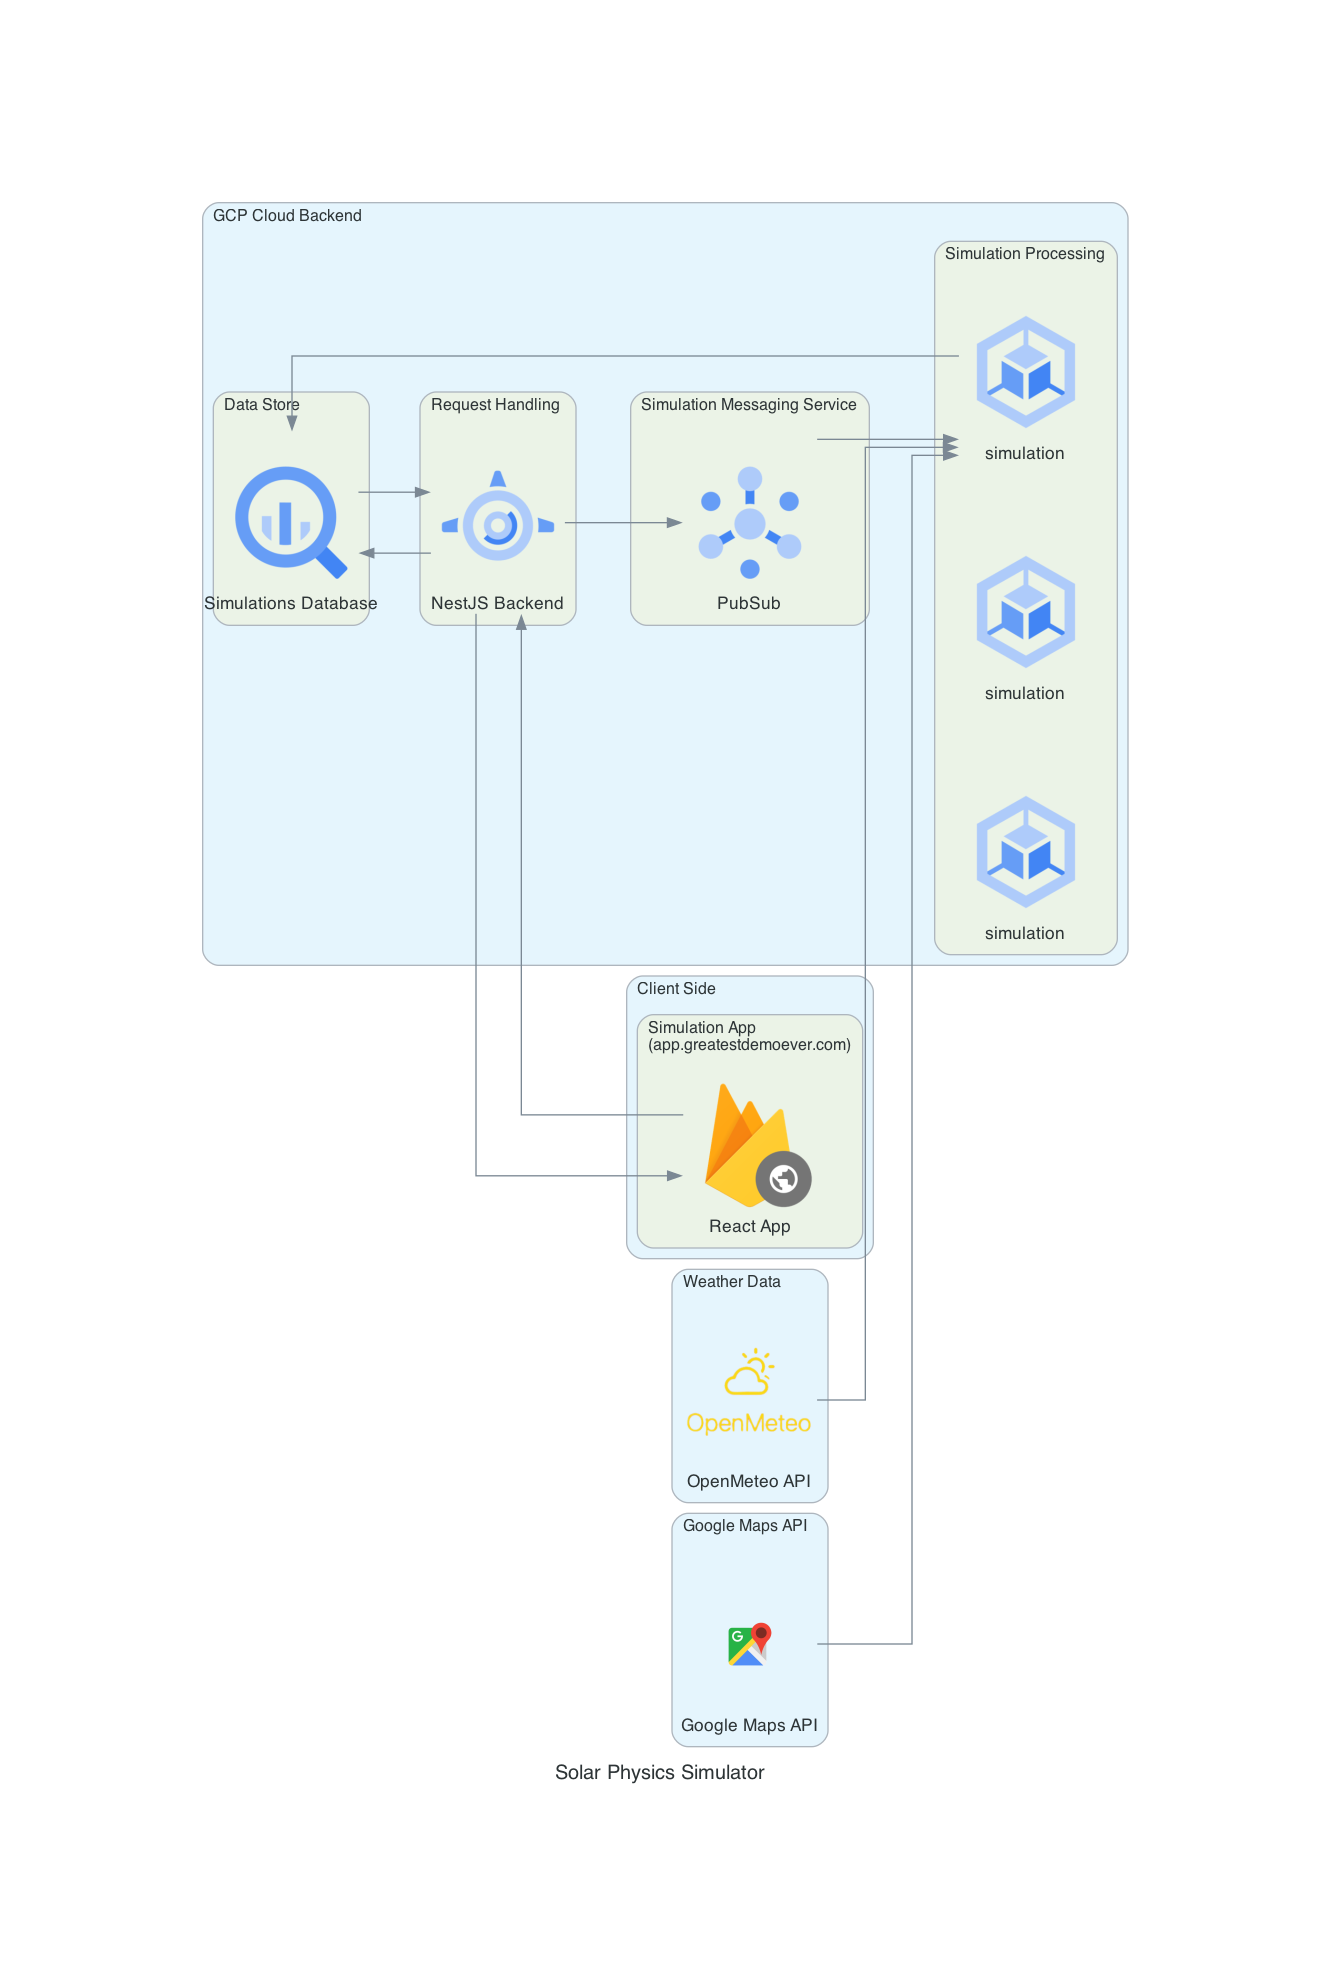
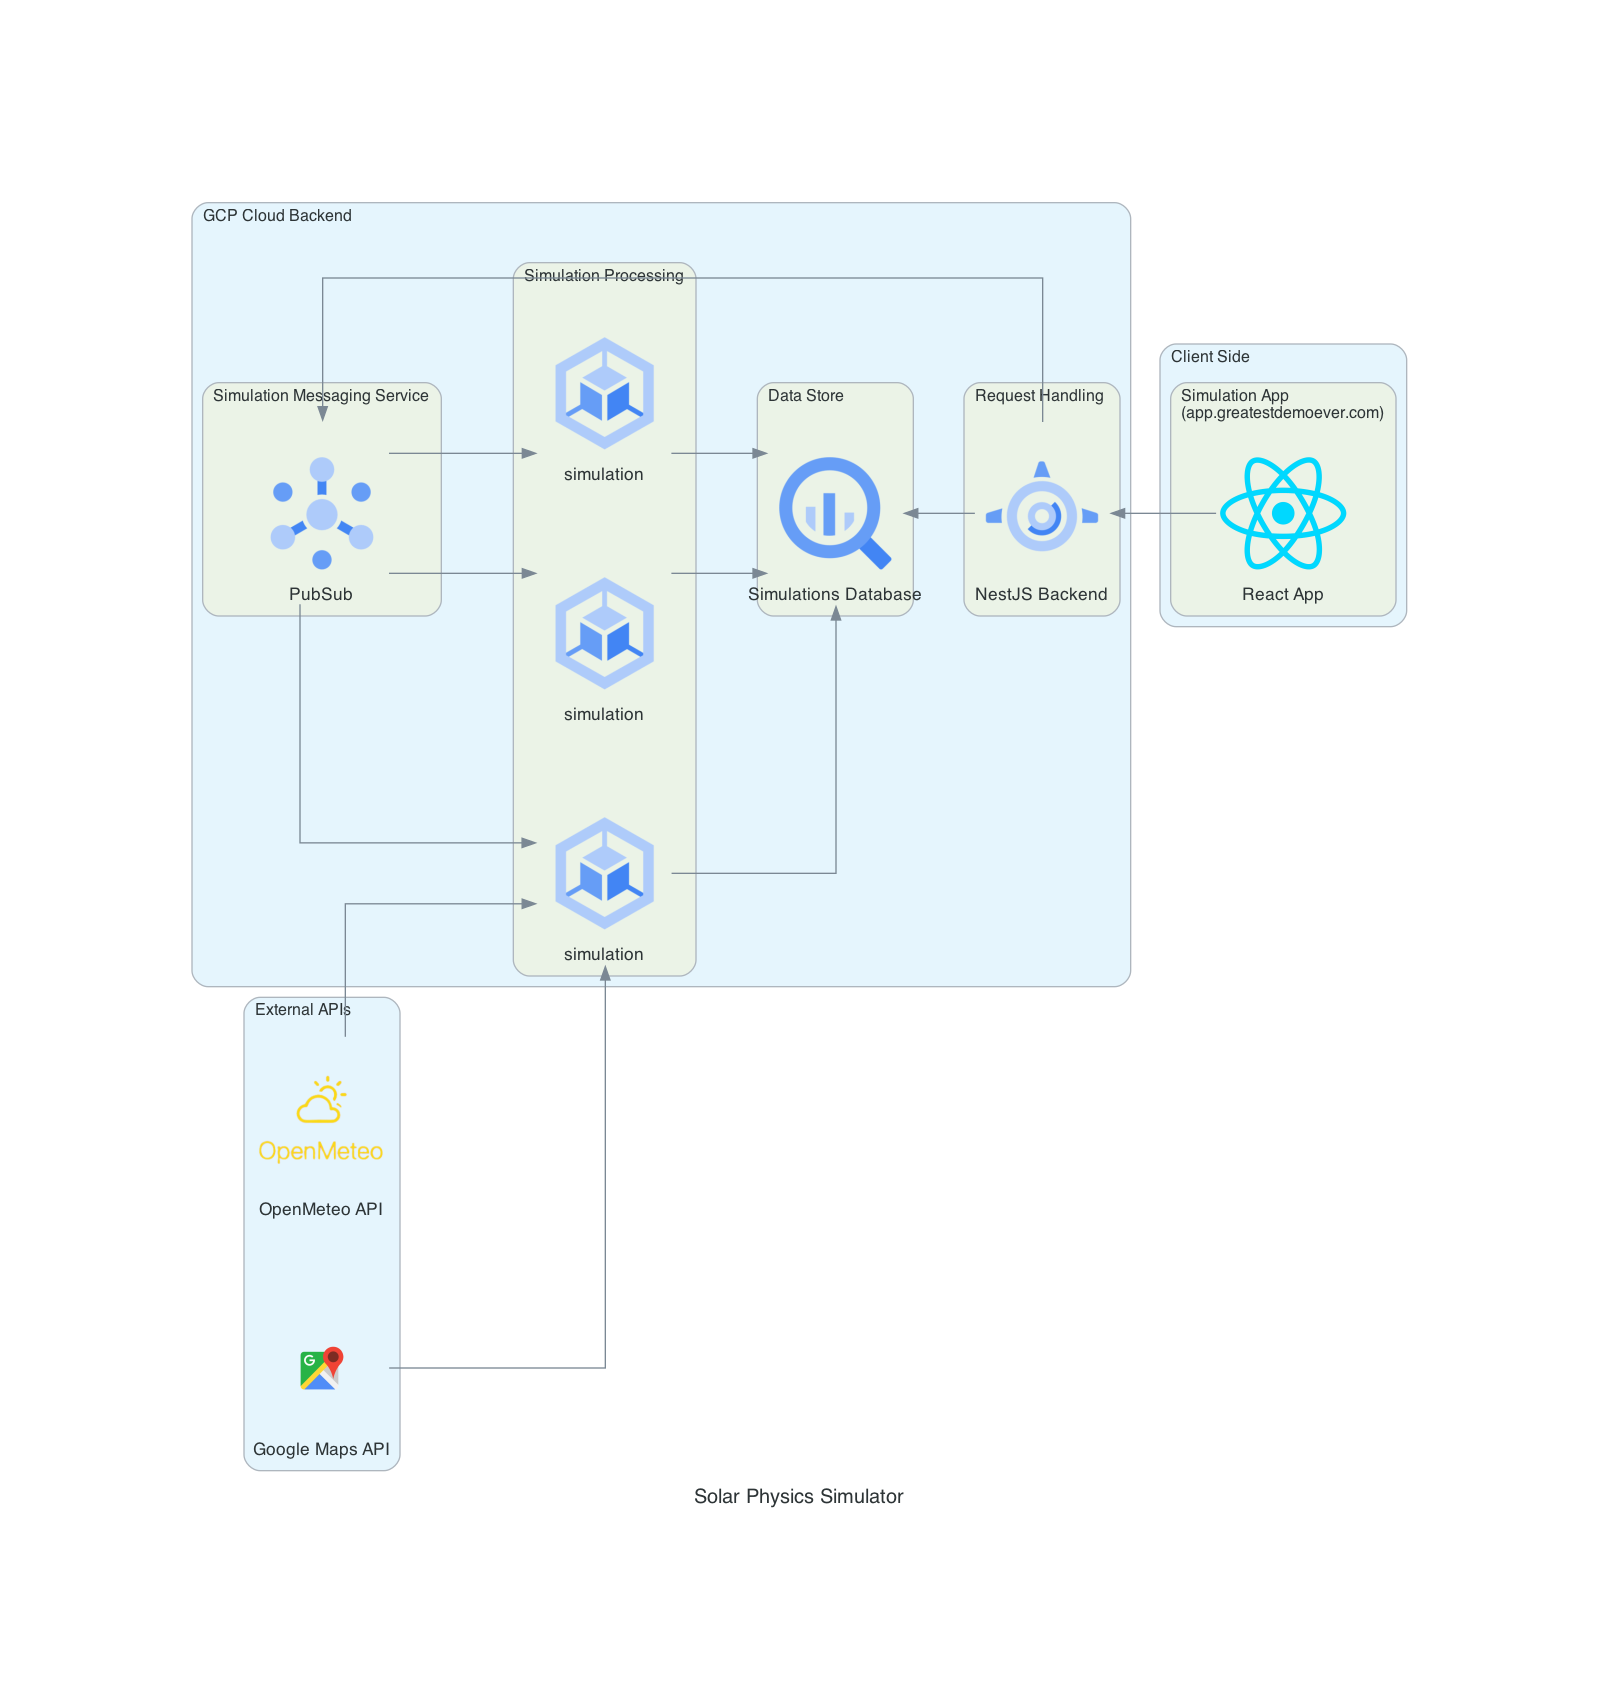
updated architecture diagram to show things a bit more clearly

Changed region(s): [[0.0932, 0.0931, 0.9008, 0.9004]]

diff --git a/architecture-graphs/makeNewArchitectureGraph.py b/architecture-graphs/makeNewArchitectureGraph.py
@@ -9,17 +9,24 @@ from diagrams.generic.place import Datacenter
 from diagrams.custom import Custom
 
 graph_attr = {
-    # "layout": "dot",
-    # "concentrate": "true",
-    # "compound": "true",
-    # "splines": "spline",
+    "layout": "dot",
+    "concentrate": "true",
+    "compound": "true",
+    # "splines": "spline"
+    # "bgcolor": "orange"
 }
 
-REACT_ICON_PATH = "readmeAssets/react-1-logo-png-transparent.png"
+REACT_ICON_PATH = "assets/react-icon.png"
 GOOGLE_MAPS_ICON_PATH = "assets/google-maps-icon.png"
 OPEN_METEO_ICON_PATH = "assets/open-meteo-icon.png"
 
 with Diagram("Solar Physics Simulator", show=False, graph_attr=graph_attr):
+
+    with Cluster("Client Side"):
+        with Cluster("Simulation App\r(app.greatestdemoever.com)"):
+            react_app = [Custom("React App", REACT_ICON_PATH)]
+
+
     with Cluster("GCP Cloud Backend"):
         # firestoreIcon = Firestore("Database")
 
@@ -36,26 +43,23 @@ with Diagram("Solar Physics Simulator", show=False, graph_attr=graph_attr):
 
         with Cluster("Simulation Processing"):
             simulation_processing = [GKE("simulation"), GKE("simulation"), GKE("simulation")]
-            flow >> simulation_processing[1]
-            simulation_processing[1] >> bigqueryIcon
+            flow >> simulation_processing
+            simulation_processing >> bigqueryIcon
 
         request_handling >> flow
+        react_app >> request_handling
+        request_handling >> react_app
 
-    with Cluster("Client Side"):
-        with Cluster("Simulation App\r(app.greatestdemoever.com)"):
-            react_app = [Hosting("React App")]
-            react_app[0] >> request_handling
-            request_handling >> react_app[0]
 
-    with Cluster("Weather Data"):
+
+    with Cluster("External APIs"):
         weather_cluster = [Custom("OpenMeteo API", OPEN_METEO_ICON_PATH)]
         # weather_cluster >> simulation_processing[0]
         weather_cluster >> simulation_processing[1]
-
-    with Cluster("Google Maps API"):
         google_maps_cluster = [Custom("Google Maps API", GOOGLE_MAPS_ICON_PATH)]
         # google_maps_cluster >> simulation_processing[0]
         google_maps_cluster >> simulation_processing[1]
+
 
 # with Cluster("Notifications For Users"):
 #     twillio = Custom("Twillio", TWILIO_ICON_PATH)
